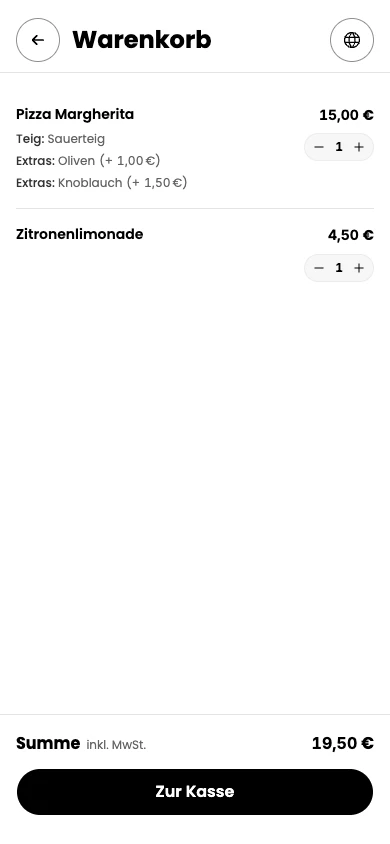
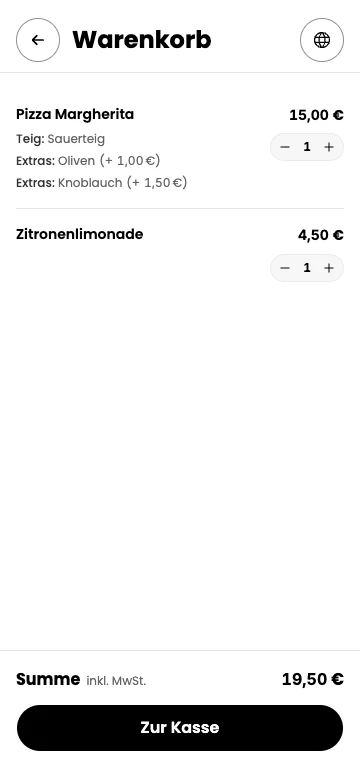
fixed cart quantity stepper touch size inflation and widened digit padding on webapp and reduced mobile demo screenshot resolution to 360x780 on website and recaptured product demo screenshots on website and updated design system documentation

diff --git a/webapp/components/guest/guest-frontend.tsx b/webapp/components/guest/guest-frontend.tsx
@@ -504,28 +504,26 @@ function GuestCart({
                 />
 
                 <div className="flex items-center bg-muted/80 p-0.5 h-7 rounded-full border border-border/60 shrink-0">
-                  <Button
-                    size="icon-xs"
-                    variant="ghost"
-                    className="size-6 p-0 rounded-full cursor-pointer hover:bg-background shrink-0"
+                  <button
+                    type="button"
+                    className="size-6 rounded-full flex items-center justify-center cursor-pointer hover:bg-background active:scale-95 text-foreground transition-[background-color,transform] duration-100 disabled:opacity-50 disabled:pointer-events-none shrink-0"
                     onClick={() => updateQuantity(item.id, item.quantity - 1)}
                     aria-label={`${item.quantity === 1 ? t("removeFromCart") : t("decreaseQuantity")}: ${item.name}`}
                   >
                     <Minus weight="bold" className="size-3" />
-                  </Button>
-                  <span className="text-xs font-bold font-inter tabular-nums min-w-[14px] text-center px-1">
+                  </button>
+                  <span className="text-xs font-bold font-inter tabular-nums min-w-[18px] text-center px-1.5">
                     {item.quantity}
                   </span>
-                  <Button
-                    size="icon-xs"
-                    variant="ghost"
-                    className="size-6 p-0 rounded-full cursor-pointer hover:bg-background shrink-0"
+                  <button
+                    type="button"
+                    className="size-6 rounded-full flex items-center justify-center cursor-pointer hover:bg-background active:scale-95 text-foreground transition-[background-color,transform] duration-100 disabled:opacity-50 disabled:pointer-events-none shrink-0"
                     onClick={() => updateQuantity(item.id, item.quantity + 1)}
                     disabled={item.quantity >= MAX_CART_ITEM_QUANTITY}
                     aria-label={`${t("increaseQuantity")}: ${item.name}`}
                   >
                     <Plus weight="bold" className="size-3" />
-                  </Button>
+                  </button>
                 </div>
                 {item.quantity >= MAX_CART_ITEM_QUANTITY && (
                   <p className="w-full text-left text-sm font-medium text-destructive">

diff --git a/website/components/ProductDemo.tsx b/website/components/ProductDemo.tsx
@@ -13,8 +13,8 @@ export function ProductDemo({
         <img
           src={`/product/${locale}-${screen.toLowerCase()}.webp`}
           alt={t(`flow${screen}Text`)}
-          width={tablet ? 1200 : 390}
-          height={tablet ? 710 : 844}
+          width={tablet ? 1200 : 360}
+          height={tablet ? 710 : 780}
           loading="lazy"
           className={`block w-full ${tablet ? "aspect-[1200/710] h-auto rounded-[18px] object-contain" : "h-full object-cover"}`}
         />

diff --git a/docs/design-system.md b/docs/design-system.md
@@ -55,7 +55,7 @@ The [dashboard](../webapp/components/dashboard/dashboard-shell.tsx) and [staff s
 <a id="ds-guest"></a>
 ## DS-05: Guest ordering and checkout
 
-The [guest frontend](../webapp/components/guest/guest-frontend.tsx) keeps menu and cart content in a narrow column and reveals a bottom cart action after an item is added. A signature black wavy divider line ([WaveLine](../webapp/components/ui/wave-line.tsx), `strokeWidth={2.25}`) in zakkig's physical QR aesthetic separates the top restaurant profile and address from the sticky categories carousel, maintaining tactile physical anchoring in hospitality environments. On mobile viewports, guest headers feature safe-area top clearance (`pt-[max(1.5rem,env(safe-area-inset-top))] sm:pt-6`) and cart headers feature (`pt-[max(0.5rem,env(safe-area-inset-top))] sm:pt-0`) preventing banner content and controls from crowding rounded hardware corners. Bottom action bars (floating cart banner, cart footer, and order success/tracker footers) use balanced safe-area bottom insets (`pb-[max(1.5rem,env(safe-area-inset-bottom))]` or `pb-[max(1.75rem,env(safe-area-inset-bottom))]`). Inside the cart view, item quantity controls use a slim stepper pill (`h-7`, `p-0.5`, `size-6` actions, `min-w-[14px]` digit, ~64px width) preventing layout crowding next to item titles and totals. [Cart sheet](../webapp/components/guest/cart-sheet.tsx) and [checkout form](../webapp/components/guest/checkout-form.tsx) present selection review and payment with a prominent action. [Customization](../webapp/components/guest/customization-modal.tsx) distinguishes selected, unselected, disabled, and required choices, aligning its description collapse arrow on the exact vertical axis with the header close button directly above it. The [tracker](../webapp/components/guest/order-tracker.tsx) renders in-progress, ready, and completed states; its ten-minute UI timer begins at `readyAt`, with timestamp fallbacks for older orders. The timer does not revoke backend reads; see the [audit](documentation-audit.md). Completed dine-in and takeaway status views display a subtle attribution footer acknowledging `zakkig.com` as the underlying QR ordering and payment system with an underlined link to the homepage.
+The [guest frontend](../webapp/components/guest/guest-frontend.tsx) keeps menu and cart content in a narrow column and reveals a bottom cart action after an item is added. A signature black wavy divider line ([WaveLine](../webapp/components/ui/wave-line.tsx), `strokeWidth={2.25}`) in zakkig's physical QR aesthetic separates the top restaurant profile and address from the sticky categories carousel, maintaining tactile physical anchoring in hospitality environments. On mobile viewports, guest headers feature safe-area top clearance (`pt-[max(1.5rem,env(safe-area-inset-top))] sm:pt-6`) and cart headers feature (`pt-[max(0.5rem,env(safe-area-inset-top))] sm:pt-0`) preventing banner content and controls from crowding rounded hardware corners. Bottom action bars (floating cart banner, cart footer, and order success/tracker footers) use balanced safe-area bottom insets (`pb-[max(1.5rem,env(safe-area-inset-bottom))]` or `pb-[max(1.75rem,env(safe-area-inset-bottom))]`). Inside the cart view, item quantity controls use a slim stepper pill (`h-7`, `p-0.5`, `size-6` actions, `min-w-[18px]` digit, ~72px width) preventing layout crowding next to item titles and totals while maintaining identical geometry across all viewports and pointer types. [Cart sheet](../webapp/components/guest/cart-sheet.tsx) and [checkout form](../webapp/components/guest/checkout-form.tsx) present selection review and payment with a prominent action. [Customization](../webapp/components/guest/customization-modal.tsx) distinguishes selected, unselected, disabled, and required choices, aligning its description collapse arrow on the exact vertical axis with the header close button directly above it. The [tracker](../webapp/components/guest/order-tracker.tsx) renders in-progress, ready, and completed states; its ten-minute UI timer begins at `readyAt`, with timestamp fallbacks for older orders. The timer does not revoke backend reads; see the [audit](documentation-audit.md). Completed dine-in and takeaway status views display a subtle attribution footer acknowledging `zakkig.com` as the underlying QR ordering and payment system with an underlined link to the homepage.
 
 <a id="ds-qr"></a>
 ## DS-06: QR, print, and numbers
@@ -65,7 +65,7 @@ The [website QR showcase](../website/components/QrCodeShowcase.tsx) renders a re
 <a id="ds-website"></a>
 ## DS-07: Marketing website
 
-[MainPage](../website/components/MainPage.tsx) keeps the editorial hero, QR sheet, product views, setup flow, pricing, FAQ, and signup action. [Header](../website/components/Header.tsx) uses translated native hash links and an accessible mobile menu with Escape dismissal and focus return. [ProductDemo](../website/components/ProductDemo.tsx) renders the committed DE/EN captures at standard iPhone dimensions (`w-[285px] h-[590px]`, 390x844px) and tablet dimensions (`1200x710px`) with collapsed sidebar; their visual currency depends on regeneration from the webapp [fixture](../webapp/tools/marketing-demo/) after webapp changes. The page uses the shared button roles and 4px scale; static layout is authored in Tailwind JSX, with [global CSS](../website/app/globals.css) reserved for tokens and base behavior. [AnimatedBenefitStat](../website/components/AnimatedBenefitStat.tsx) animates on intersection and jumps to its target under reduced motion.
+[MainPage](../website/components/MainPage.tsx) keeps the editorial hero, QR sheet, product views, setup flow, pricing, FAQ, and signup action. [Header](../website/components/Header.tsx) uses translated native hash links and an accessible mobile menu with Escape dismissal and focus return. [ProductDemo](../website/components/ProductDemo.tsx) renders the committed DE/EN captures at standard iPhone dimensions (`w-[285px] h-[590px]`, 360x780px) and tablet dimensions (`1200x710px`) with collapsed sidebar; their visual currency depends on regeneration from the webapp [fixture](../webapp/tools/marketing-demo/) after webapp changes. The page uses the shared button roles and 4px scale; static layout is authored in Tailwind JSX, with [global CSS](../website/app/globals.css) reserved for tokens and base behavior. [AnimatedBenefitStat](../website/components/AnimatedBenefitStat.tsx) animates on intersection and jumps to its target under reduced motion.
 
 The website uses viewport composition breakpoints and features a unified 100% light surface hierarchy across all sections and the footer, cleanly delineated by Zakkig's signature horizontal [WaveLine](../website/components/WaveLine.tsx) dividers in solid black (`text-black`) as a core visual trademark, with the footer divider serving as the sole divider above the footer. Navigation and legal links render with tracked uppercase (`uppercase tracking-[0.08em]`) for distinct wayfinding, while buttons, dialog triggers, and body text use natural casing. Its QR paper shadow is an object treatment, not general elevation. [Page](../website/components/MainPage.tsx), [QR](../website/components/QrCodeShowcase.tsx), [footer](../website/components/SiteFooter.tsx).
 

diff --git a/AGENTS.md b/AGENTS.md
@@ -136,7 +136,7 @@ Follow this unified, multi-layered architecture for all features and changes:
    - When viewing the cart, the merchant hero banner is suppressed. The view features a top header with an `<ArrowLeft>` back button returning to the menu, the cart title, restaurant subtitle, and order type tag.
 4. **Tactile Wavy Divider & Sleek Quantity Controls:**
    - A prominent black wavy divider (`<WaveLine className="w-full mt-4 text-black" strokeWidth={2.25} />`) in zakkig's signature physical QR aesthetic separates the top restaurant profile and address from the sticky categories carousel.
-   - Cart item quantity controls use a slim stepper pill (`h-7`, `p-0.5`, `size-6` actions, `min-w-[14px]` digit, ~64px width) preventing layout crowding next to item titles and totals.
+   - Cart item quantity controls use a slim stepper pill (`h-7`, `p-0.5`, `size-6` actions, `min-w-[18px]` digit, ~72px width) preventing layout crowding next to item titles and totals while maintaining identical geometry across all viewports and pointer types.
 5. **Post-Checkout Brand Attribution & Zero-Logo Link Policy:**
    - The zakkig logo across the webapp (dashboard, staff shell, and auth pages) is non-clickable static branding.
    - Post-checkout guest views (dine-in order success and takeaway order tracker) feature a subtle, centered attribution notice at the bottom: "Bestellung abgewickelt über zakkig.com als QR-Bestell- und Bezahlsystem" (or English equivalent), where `zakkig.com` is an underlined external link.
